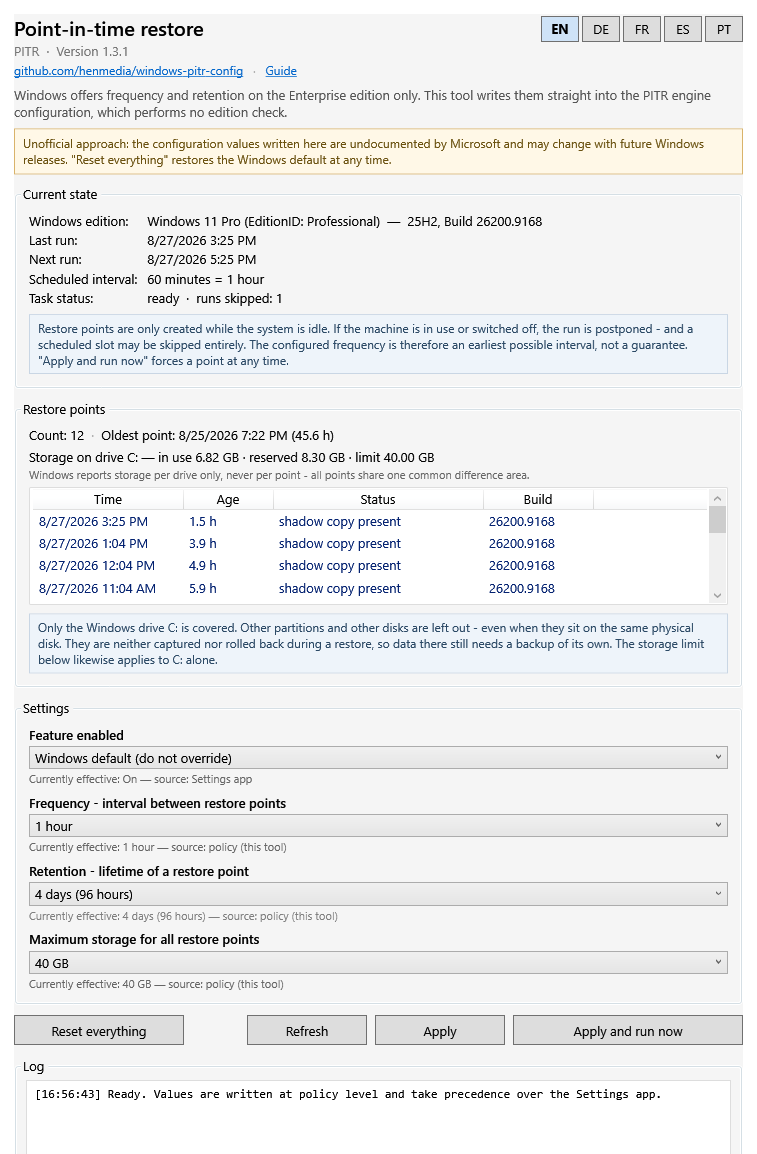
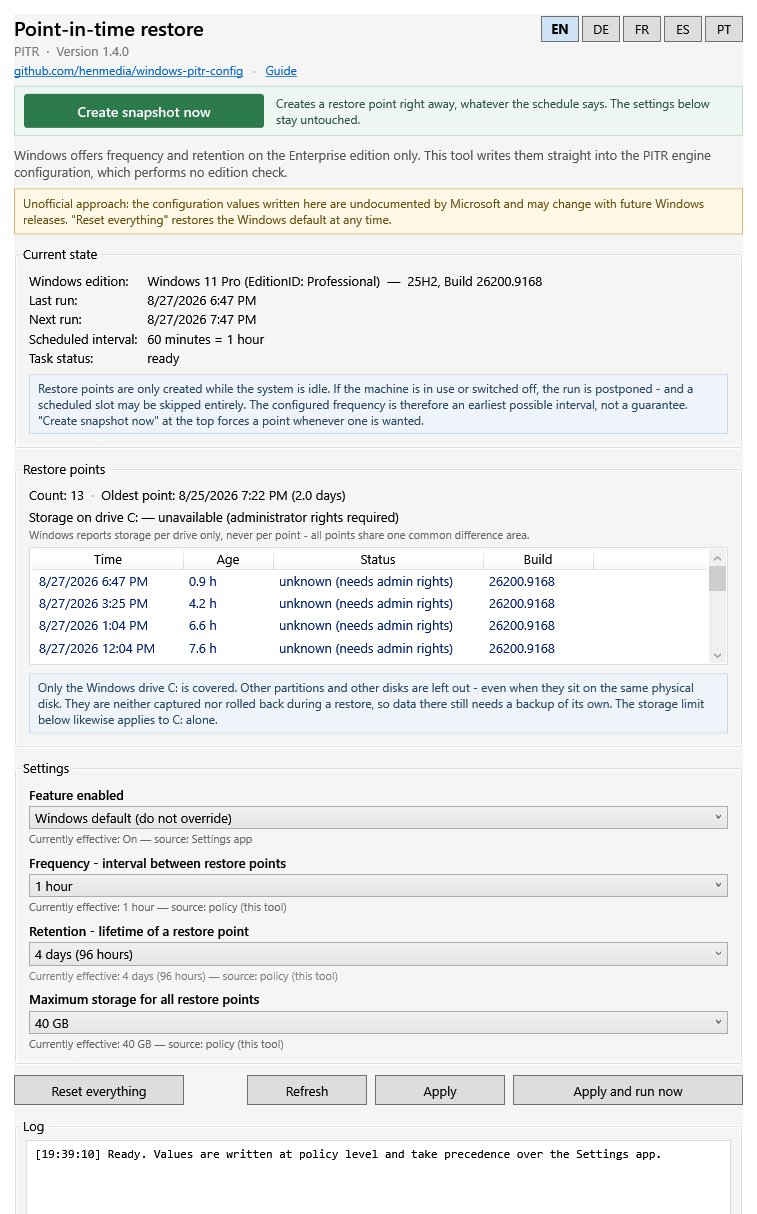
Add a prominent "Create snapshot now" button at the top of the window
Forcing a restore point was already possible, but only through "Apply and run
now" at the bottom, which saves the settings along with it. Creating a snapshot
on demand is the more common reason to open the tool at all, so it gets its own
button - and one that writes nothing but the point itself.

The button needs its own control template: a plain WPF button accepts a
Background but paints the system gradient back over it on mouse-over.

Guide and README cover it in all five languages; the idle notice now points at
the new button.

diff --git a/docs/guide.html b/docs/guide.html
@@ -94,6 +94,15 @@
      in the engine underneath, and the engine takes its configuration from a place the tool
      can write to directly.</p>
 
+  <h2>A snapshot whenever one is wanted</h2>
+  <p>The green button at the top of the window, <b>Create snapshot now</b>, creates a restore
+     point immediately — no waiting for the schedule, and no setting touched. One click worth
+     spending before a driver installation, an edit to the registry, or a first run of
+     unfamiliar software.</p>
+  <p>It takes a moment: the task runs, Windows writes the shadow copy, and the new point then
+     appears in the list below. Since the scheduled task otherwise runs only while the machine
+     is idle, the button lifts that condition for this one run and restores it afterwards.</p>
+
   <h2>Getting started</h2>
   <p>Double-click <code>pitr-config.cmd</code>. It asks for administrator rights itself, then
      opens a window. Nothing is written until a button is pressed.</p>
@@ -105,6 +114,7 @@
 
   <h2>The buttons</h2>
   <div class="tablewrap"><table>
+    <tr><th>Create snapshot now</th><td>Creates a restore point at once, without changing any setting. The highlighted button at the top of the window.</td></tr>
     <tr><th>Apply</th><td>Writes the selected settings. A new frequency takes effect the next time the scheduled task runs.</td></tr>
     <tr><th>Apply and run now</th><td>Writes the settings and runs the task immediately, so a restore point is created and the schedule is recalculated at once.</td></tr>
     <tr><th>Refresh</th><td>Re-reads the current state.</td></tr>
@@ -156,6 +166,16 @@
      Einstellungen, nicht in der darunterliegenden Engine, und die Engine liest ihre
      Konfiguration von einer Stelle, die das Werkzeug direkt beschreiben kann.</p>
 
+  <h2>Ein Schnappschuss, wann immer er gebraucht wird</h2>
+  <p>Die grüne Schaltfläche oben im Fenster, <b>Schnappschuss jetzt erstellen</b>, legt sofort
+     einen Wiederherstellungspunkt an — ohne auf den Zeitplan zu warten und ohne dass sich an
+     einer Einstellung etwas ändert. Ein Klick, der sich vor einer Treiberinstallation, einem
+     Eingriff in die Registry oder dem ersten Start unbekannter Software lohnt.</p>
+  <p>Es dauert einen Moment: Die Aufgabe läuft, Windows schreibt die Schattenkopie, danach
+     erscheint der neue Punkt in der Liste darunter. Weil die geplante Aufgabe sonst nur im
+     Leerlauf läuft, hebt die Schaltfläche diese Bedingung für diesen einen Lauf auf und stellt
+     sie danach wieder her.</p>
+
   <h2>Erste Schritte</h2>
   <p><code>pitr-config.cmd</code> doppelklicken. Die Datei fordert selbst Administratorrechte
      an und öffnet ein Fenster. Geschrieben wird erst beim Druck auf eine Schaltfläche.</p>
@@ -168,6 +188,7 @@
 
   <h2>Die Schaltflächen</h2>
   <div class="tablewrap"><table>
+    <tr><th>Schnappschuss jetzt erstellen</th><td>Legt sofort einen Wiederherstellungspunkt an, ohne eine Einstellung zu ändern. Die hervorgehobene Schaltfläche oben im Fenster.</td></tr>
     <tr><th>Übernehmen</th><td>Schreibt die gewählten Einstellungen. Eine neue Häufigkeit wird beim nächsten Lauf der geplanten Aufgabe wirksam.</td></tr>
     <tr><th>Übernehmen und sofort ausführen</th><td>Schreibt die Einstellungen und stößt die Aufgabe direkt an, sodass sofort ein Punkt entsteht und der Zeitplan neu berechnet wird.</td></tr>
     <tr><th>Aktualisieren</th><td>Liest den aktuellen Zustand neu ein.</td></tr>
@@ -222,6 +243,16 @@
      Paramètres, pas dans le moteur sous-jacent, et ce moteur lit sa configuration à un
      endroit où l'outil peut écrire directement.</p>
 
+  <h2>Un instantané dès qu'on en a besoin</h2>
+  <p>Le bouton vert en haut de la fenêtre, <b>Créer un instantané maintenant</b>, crée
+     immédiatement un point de restauration — sans attendre la planification et sans toucher au
+     moindre réglage. Un clic qui vaut la peine avant l'installation d'un pilote, une
+     intervention dans le registre ou le premier lancement d'un logiciel inconnu.</p>
+  <p>Cela prend un moment : la tâche s'exécute, Windows écrit le cliché instantané, puis le
+     nouveau point apparaît dans la liste en dessous. Comme la tâche planifiée ne s'exécute
+     autrement que pendant l'inactivité, le bouton lève cette condition pour cette seule
+     exécution et la rétablit ensuite.</p>
+
   <h2>Premiers pas</h2>
   <p>Double-clic sur <code>pitr-config.cmd</code>. Le fichier demande lui-même les droits
      d'administrateur et ouvre une fenêtre. Rien n'est écrit tant qu'aucun bouton n'a été
@@ -235,6 +266,7 @@
 
   <h2>Les boutons</h2>
   <div class="tablewrap"><table>
+    <tr><th>Créer un instantané maintenant</th><td>Crée aussitôt un point de restauration, sans modifier le moindre réglage. Le bouton mis en évidence en haut de la fenêtre.</td></tr>
     <tr><th>Appliquer</th><td>Écrit les réglages choisis. Une nouvelle fréquence prend effet à la prochaine exécution de la tâche planifiée.</td></tr>
     <tr><th>Appliquer et exécuter maintenant</th><td>Écrit les réglages et lance la tâche immédiatement : un point est créé et la planification est recalculée aussitôt.</td></tr>
     <tr><th>Actualiser</th><td>Relit l'état actuel.</td></tr>
@@ -287,6 +319,16 @@
      de Configuración, no en el motor que hay debajo, y ese motor lee su configuración de un
      lugar en el que la herramienta puede escribir directamente.</p>
 
+  <h2>Una instantánea cuando haga falta</h2>
+  <p>El botón verde de la parte superior de la ventana, <b>Crear instantánea ahora</b>, crea de
+     inmediato un punto de restauración: sin esperar a la programación y sin tocar ningún
+     ajuste. Un clic que merece la pena antes de instalar un controlador, modificar el registro
+     o abrir por primera vez un programa desconocido.</p>
+  <p>Tarda un momento: la tarea se ejecuta, Windows escribe la instantánea de volumen y después
+     el punto nuevo aparece en la lista de abajo. Como por lo demás la tarea programada solo se
+     ejecuta con el equipo inactivo, el botón levanta esa condición para esta única ejecución y
+     la restablece al terminar.</p>
+
   <h2>Primeros pasos</h2>
   <p>Doble clic en <code>pitr-config.cmd</code>. El archivo solicita por sí mismo permisos
      de administrador y abre una ventana. No se escribe nada hasta que pulse un botón.</p>
@@ -299,6 +341,7 @@
 
   <h2>Los botones</h2>
   <div class="tablewrap"><table>
+    <tr><th>Crear instantánea ahora</th><td>Crea al instante un punto de restauración, sin cambiar ningún ajuste. El botón destacado en la parte superior de la ventana.</td></tr>
     <tr><th>Aplicar</th><td>Escribe los ajustes elegidos. Una frecuencia nueva surte efecto en la siguiente ejecución de la tarea programada.</td></tr>
     <tr><th>Aplicar y ejecutar ahora</th><td>Escribe los ajustes y ejecuta la tarea de inmediato, de modo que se crea un punto y el calendario se recalcula al instante.</td></tr>
     <tr><th>Actualizar</th><td>Vuelve a leer el estado actual.</td></tr>
@@ -350,6 +393,15 @@
      app Configurações, não no mecanismo por baixo, e esse mecanismo lê sua configuração de um
      lugar onde a ferramenta pode gravar diretamente.</p>
 
+  <h2>Um instantâneo quando for preciso</h2>
+  <p>O botão verde no alto da janela, <b>Criar instantâneo agora</b>, cria imediatamente um
+     ponto de restauração: sem esperar pelo agendamento e sem alterar nenhuma configuração. Um
+     clique que vale a pena antes de instalar um driver, mexer no registro ou abrir pela
+     primeira vez um programa desconhecido.</p>
+  <p>Leva um instante: a tarefa é executada, o Windows grava a cópia de sombra e o novo ponto
+     aparece na lista abaixo. Como a tarefa agendada, de resto, só é executada com o computador
+     ocioso, o botão suspende essa condição nessa única execução e a restabelece em seguida.</p>
+
   <h2>Primeiros passos</h2>
   <p>Duplo clique em <code>pitr-config.cmd</code>. O arquivo solicita por conta própria
      direitos de administrador e abre uma janela. Nada é gravado até que um botão seja
@@ -363,6 +415,7 @@
 
   <h2>Os botões</h2>
   <div class="tablewrap"><table>
+    <tr><th>Criar instantâneo agora</th><td>Cria na hora um ponto de restauração, sem alterar nenhuma configuração. O botão destacado no alto da janela.</td></tr>
     <tr><th>Aplicar</th><td>Grava as configurações escolhidas. Uma nova frequência entra em vigor na próxima execução da tarefa agendada.</td></tr>
     <tr><th>Aplicar e executar agora</th><td>Grava as configurações e executa a tarefa imediatamente, criando um ponto e recalculando o agendamento na hora.</td></tr>
     <tr><th>Atualizar</th><td>Relê o estado atual.</td></tr>

diff --git a/README.md b/README.md
@@ -10,6 +10,17 @@ retention settings that Microsoft exposes on the Enterprise edition only.
 A single, self-contained `.cmd` file with a graphical interface. No installation, no
 dependencies, no PowerShell modules. Copy it to a USB stick and run it anywhere.
 
+> ### 📸 A restore point on demand
+>
+> Beyond the schedule, the tool creates a **restore point at any moment**. The green
+> **Create snapshot now** button sits at the top of the window and needs nothing else — no
+> setting is changed, no value written. One click before a driver installation, a registry
+> edit, or the first run of unfamiliar software.
+>
+> This works even while the machine is in use, which a manual start of the task does not:
+> `PITRTask` runs only when the system is idle, so the button lifts that condition for
+> exactly one run and restores it afterwards.
+
 The interface speaks **English, German, French, Spanish and Portuguese**. It starts in
 whichever one matches your Windows display language; the buttons in the top right switch at
 any time. The window also links to the project and to the
@@ -17,7 +28,7 @@ any time. The window also links to the project and to the
 language you are currently using.
 
 ![The tool running on Windows 11 Pro: current state, existing restore points, and the four
-settings](docs/screenshot.png?v=1.3.1)
+settings](docs/screenshot.png?v=1.4.0)
 <!-- The ?v= is a cache buster. GitHub proxies README images and caches them by URL,
      so replacing the file alone keeps serving the old picture for a long time.
      Bump this whenever the screenshot is regenerated. -->
@@ -67,7 +78,8 @@ Every setting also offers **"Windows default"**, which removes the override agai
 >
 > The tool makes this visible rather than leaving you guessing: it shows the task status
 > (*waiting for the system to go idle* when a run is pending) and marks an overdue next run.
-> **Apply and run now** forces a point immediately whenever you want one.
+> **Create snapshot now**, at the top of the window, forces a point immediately whenever
+> one is wanted.
 
 ## Scope: the OS volume only
 
@@ -171,6 +183,7 @@ Get-FileHash pitr-config.cmd -Algorithm SHA256
 
 | Button | Effect |
 |---|---|
+| **Create snapshot now** | Creates a restore point immediately, without changing a single setting. Highlighted at the top of the window. |
 | **Apply** | Writes the values. A new frequency takes effect on the next task run. |
 | **Apply and run now** | Writes the values and runs the task immediately, so the schedule is recalculated at once. |
 | **Refresh** | Re-reads the current state. |
@@ -201,12 +214,18 @@ pitr-config.cmd noupdate
 This is the only network connection the tool makes. The request reveals nothing about your
 system beyond what any web request does — an IP address and a `pitr-config` user agent.
 
-### Why "Apply and run now" exists
+### How the snapshot on demand works
 
-`PITRTask` has `RunOnlyIfIdle = True`. While you are actively using the machine it stays in
-the *Queued* state and a manual start appears to do nothing. That button lifts the idle
-condition for exactly one run and restores it afterwards — including when an error occurs
-in between.
+`PITRTask` has `RunOnlyIfIdle = True`. While the machine is actively in use the task stays in
+the *Queued* state, and a manual start — from the Task Scheduler, or via `Start-ScheduledTask`
+— appears to do nothing at all. That is the reason a snapshot on demand needs a tool rather
+than a one-line command.
+
+**Create snapshot now** lifts the idle condition for exactly one run and restores it
+afterwards, including when an error occurs in between. It writes nothing else: the settings in
+the window are left where they are. **Apply and run now**, at the bottom, does the same thing
+but saves the settings first — the right button when a new frequency should take effect at
+once instead of at the next scheduled run.
 
 ## Requirements
 

diff --git a/CHANGELOG.md b/CHANGELOG.md
@@ -4,6 +4,24 @@ Notable changes are recorded here. The format follows
 [Keep a Changelog](https://keepachangelog.com/en/1.1.0/), and versions follow
 [Semantic Versioning](https://semver.org/spec/v2.0.0.html).
 
+## [1.4.0] — 2026-08-27
+
+### Added
+
+- **Create snapshot now** — a highlighted button at the top of the window that creates a
+  restore point immediately, without writing any setting. The tool could already force a
+  point, but only through *Apply and run now* at the bottom, which saves the settings along
+  with it; creating a snapshot on demand is the more common reason to open the tool at all
+  and now has its own button.
+- The guide covers it in all five languages, with its own section and a row in the button
+  table.
+
+### Changed
+
+- The note about idle time now points at the new button as the way to force a point.
+- The German interface used a mixed pair of quotation marks in the unofficial-approach
+  notice.
+
 ## [1.3.1] — 2026-08-27
 
 ### Changed
